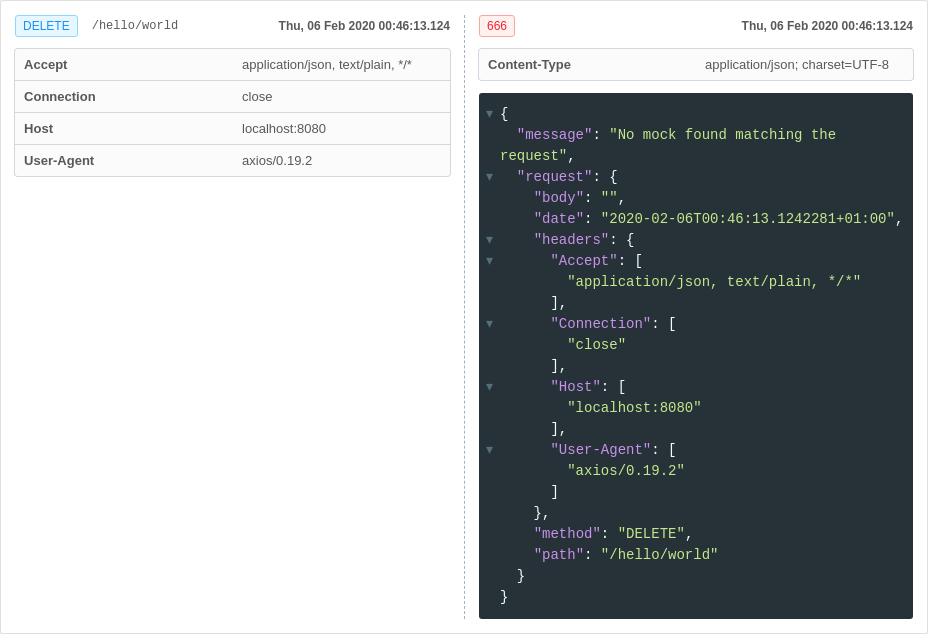
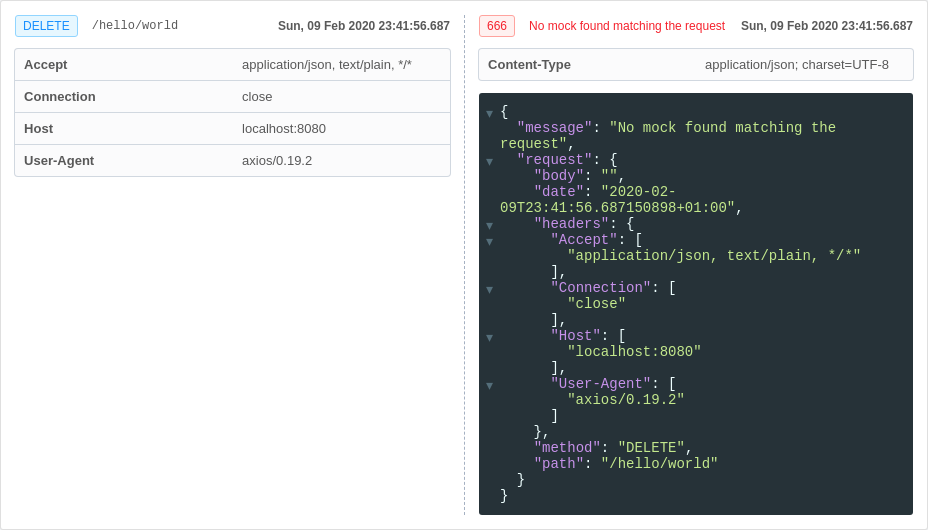
improve visualization of errors 600

diff --git a/client/src/components/History.tsx b/client/src/components/History.tsx
@@ -18,7 +18,8 @@ import {
   Alert,
   Tag,
   Row,
-  Spin
+  Spin,
+  Typography
 } from "antd";
 import "./History.scss";
 import Code from "./Code";
@@ -60,9 +61,14 @@ const Entry = React.memo(({ value }: { value: Entry }) => (
     </div>
     <div className="response">
       <div className="details">
-        <Tag color={value.response.status === 666 ? "red" : "blue"}>
+        <Tag color={value.response.status > 600 ? "red" : "blue"}>
           {value.response.status}
         </Tag>
+        {value.response.status > 600 && (
+          <Typography.Text type="danger">
+            {value.response.body.message}
+          </Typography.Text>
+        )}
         <span>
           {value.mock_id && (
             <Link to={`/pages/mocks/${value.mock_id}`}>Matched Mock</Link>
